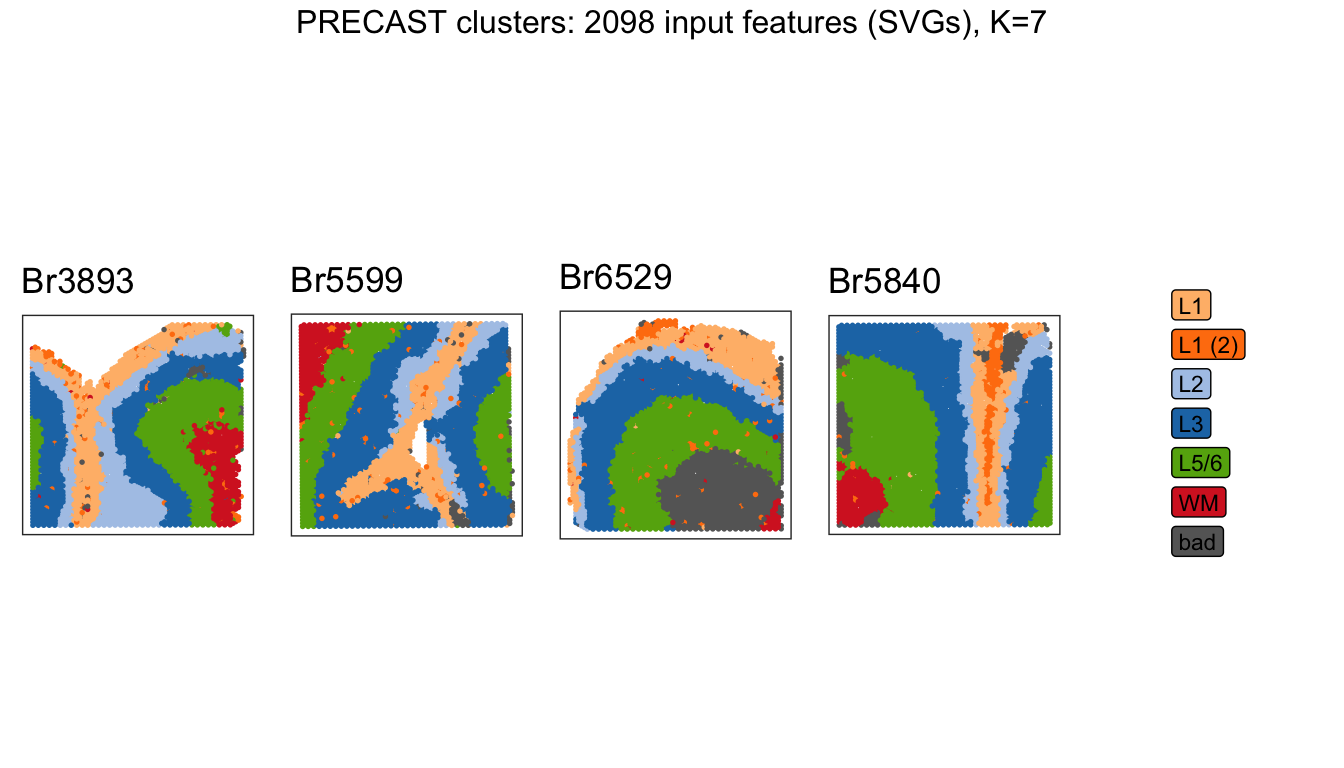
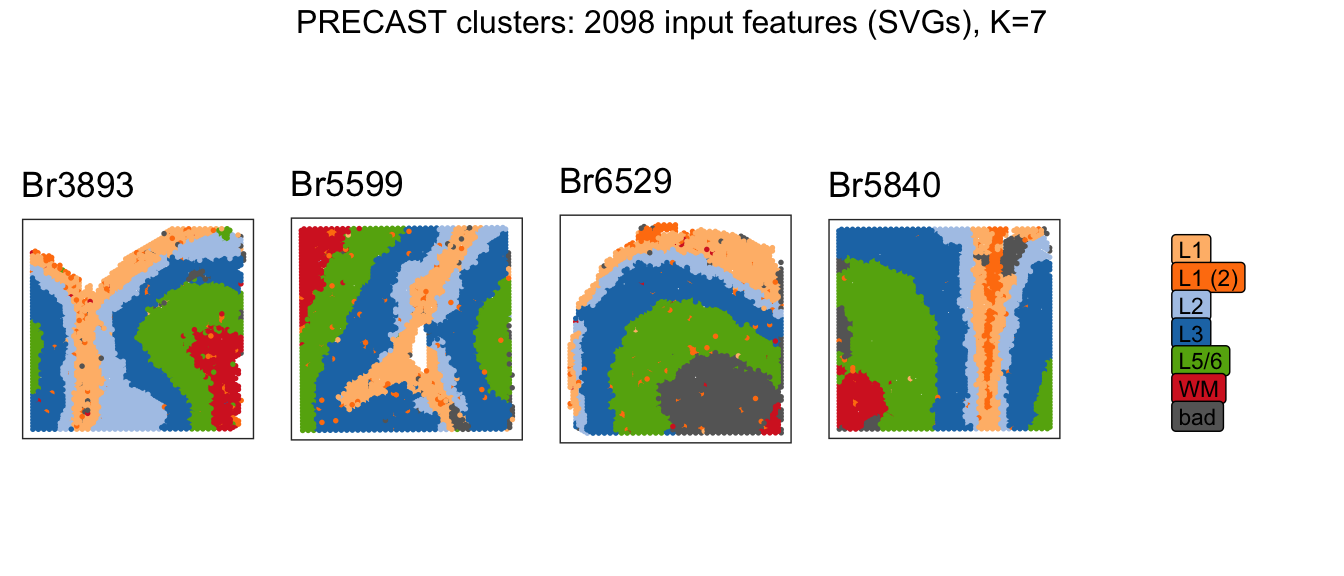
Built site for gh-pages

diff --git a/index.html b/index.html
@@ -191,15 +191,7 @@ ul.task-list li input[type="checkbox"] {
 <p>We used nnSVG to select 2098 spatially variable genes (SVGs) on which to perform clustering with the goal of identifying clusters that strongly corresponded to the laminar domains in the DLPFC.</p>
 <p>Using K=7 we observed that L5 and L6 were merged and that increasing the number of clusters (K=8) did not generate distinct clusters for L5 and L6.</p>
 <p>K=7</p>
-<div class="cell">
-<div class="cell-output-display">
-<div>
-<figure class="figure">
-<p><img src="index_files/figure-html/k7 plot-1.png" class="img-fluid figure-img" width="672"></p>
-</figure>
-</div>
-</div>
-</div>
+<p>Figure height set to 3</p>
 <div class="cell">
 <div class="cell-output-display">
 <div>
@@ -210,15 +202,7 @@ ul.task-list li input[type="checkbox"] {
 </div>
 </div>
 <p>K=8</p>
-<div class="cell">
-<div class="cell-output-display">
-<div>
-<figure class="figure">
-<p><img src="index_files/figure-html/k8 plot-1.png" class="img-fluid figure-img" width="672"></p>
-</figure>
-</div>
-</div>
-</div>
+<p>Figure height set to 4</p>
 <div class="cell">
 <div class="cell-output-display">
 <div>
@@ -258,25 +242,7 @@ ul.task-list li input[type="checkbox"] {
 <div class="cell-output-display">
 <div>
 <figure class="figure">
-<p><img src="index_files/figure-html/supp k7 plot-1.png" class="img-fluid figure-img" width="672"></p>
-</figure>
-</div>
-</div>
-</div>
-<div class="cell">
-<div class="cell-output-display">
-<div>
-<figure class="figure">
 <p><img src="index_files/figure-html/view supp k7 plot-1.png" class="img-fluid figure-img" width="672"></p>
-</figure>
-</div>
-</div>
-</div>
-<div class="cell">
-<div class="cell-output-display">
-<div>
-<figure class="figure">
-<p><img src="index_files/figure-html/supp k8 plot-1.png" class="img-fluid figure-img" width="672"></p>
 </figure>
 </div>
 </div>

diff --git a/mbv_subject.html b/mbv_subject.html
@@ -373,7 +373,7 @@ pre > code.sourceCode > span > a:first-child::before { text-decoration: underlin
 <div class="cell-output-display">
 <div>
 <figure class="figure">
-<p><img src="mbv_subject_files/figure-html/unnamed-chunk-4-1.png" class="img-fluid figure-img" width="672"></p>
+<p><img src="mbv_subject_files/figure-html/plot biased check-1.png" class="img-fluid figure-img" width="672"></p>
 </figure>
 </div>
 </div>
@@ -383,7 +383,7 @@ pre > code.sourceCode > span > a:first-child::before { text-decoration: underlin
 <div class="cell-output-display">
 <div>
 <figure class="figure">
-<p><img src="mbv_subject_files/figure-html/unnamed-chunk-6-1.png" class="img-fluid figure-img" width="384"></p>
+<p><img src="mbv_subject_files/figure-html/view spp1-1.png" class="img-fluid figure-img" width="384"></p>
 </figure>
 </div>
 </div>
@@ -396,7 +396,7 @@ pre > code.sourceCode > span > a:first-child::before { text-decoration: underlin
 <div class="cell-output-display">
 <div>
 <figure class="figure">
-<p><img src="mbv_subject_files/figure-html/unnamed-chunk-9-1.png" class="img-fluid figure-img" width="672"></p>
+<p><img src="mbv_subject_files/figure-html/view clusters sd5 sd6-1.png" class="img-fluid figure-img" width="672"></p>
 </figure>
 </div>
 </div>
@@ -406,7 +406,7 @@ pre > code.sourceCode > span > a:first-child::before { text-decoration: underlin
 <div class="cell-output-display">
 <div>
 <figure class="figure">
-<p><img src="mbv_subject_files/figure-html/unnamed-chunk-11-1.png" class="img-fluid figure-img" width="672"></p>
+<p><img src="mbv_subject_files/figure-html/view clusters sd5 sd5-1.png" class="img-fluid figure-img" width="672"></p>
 </figure>
 </div>
 </div>
